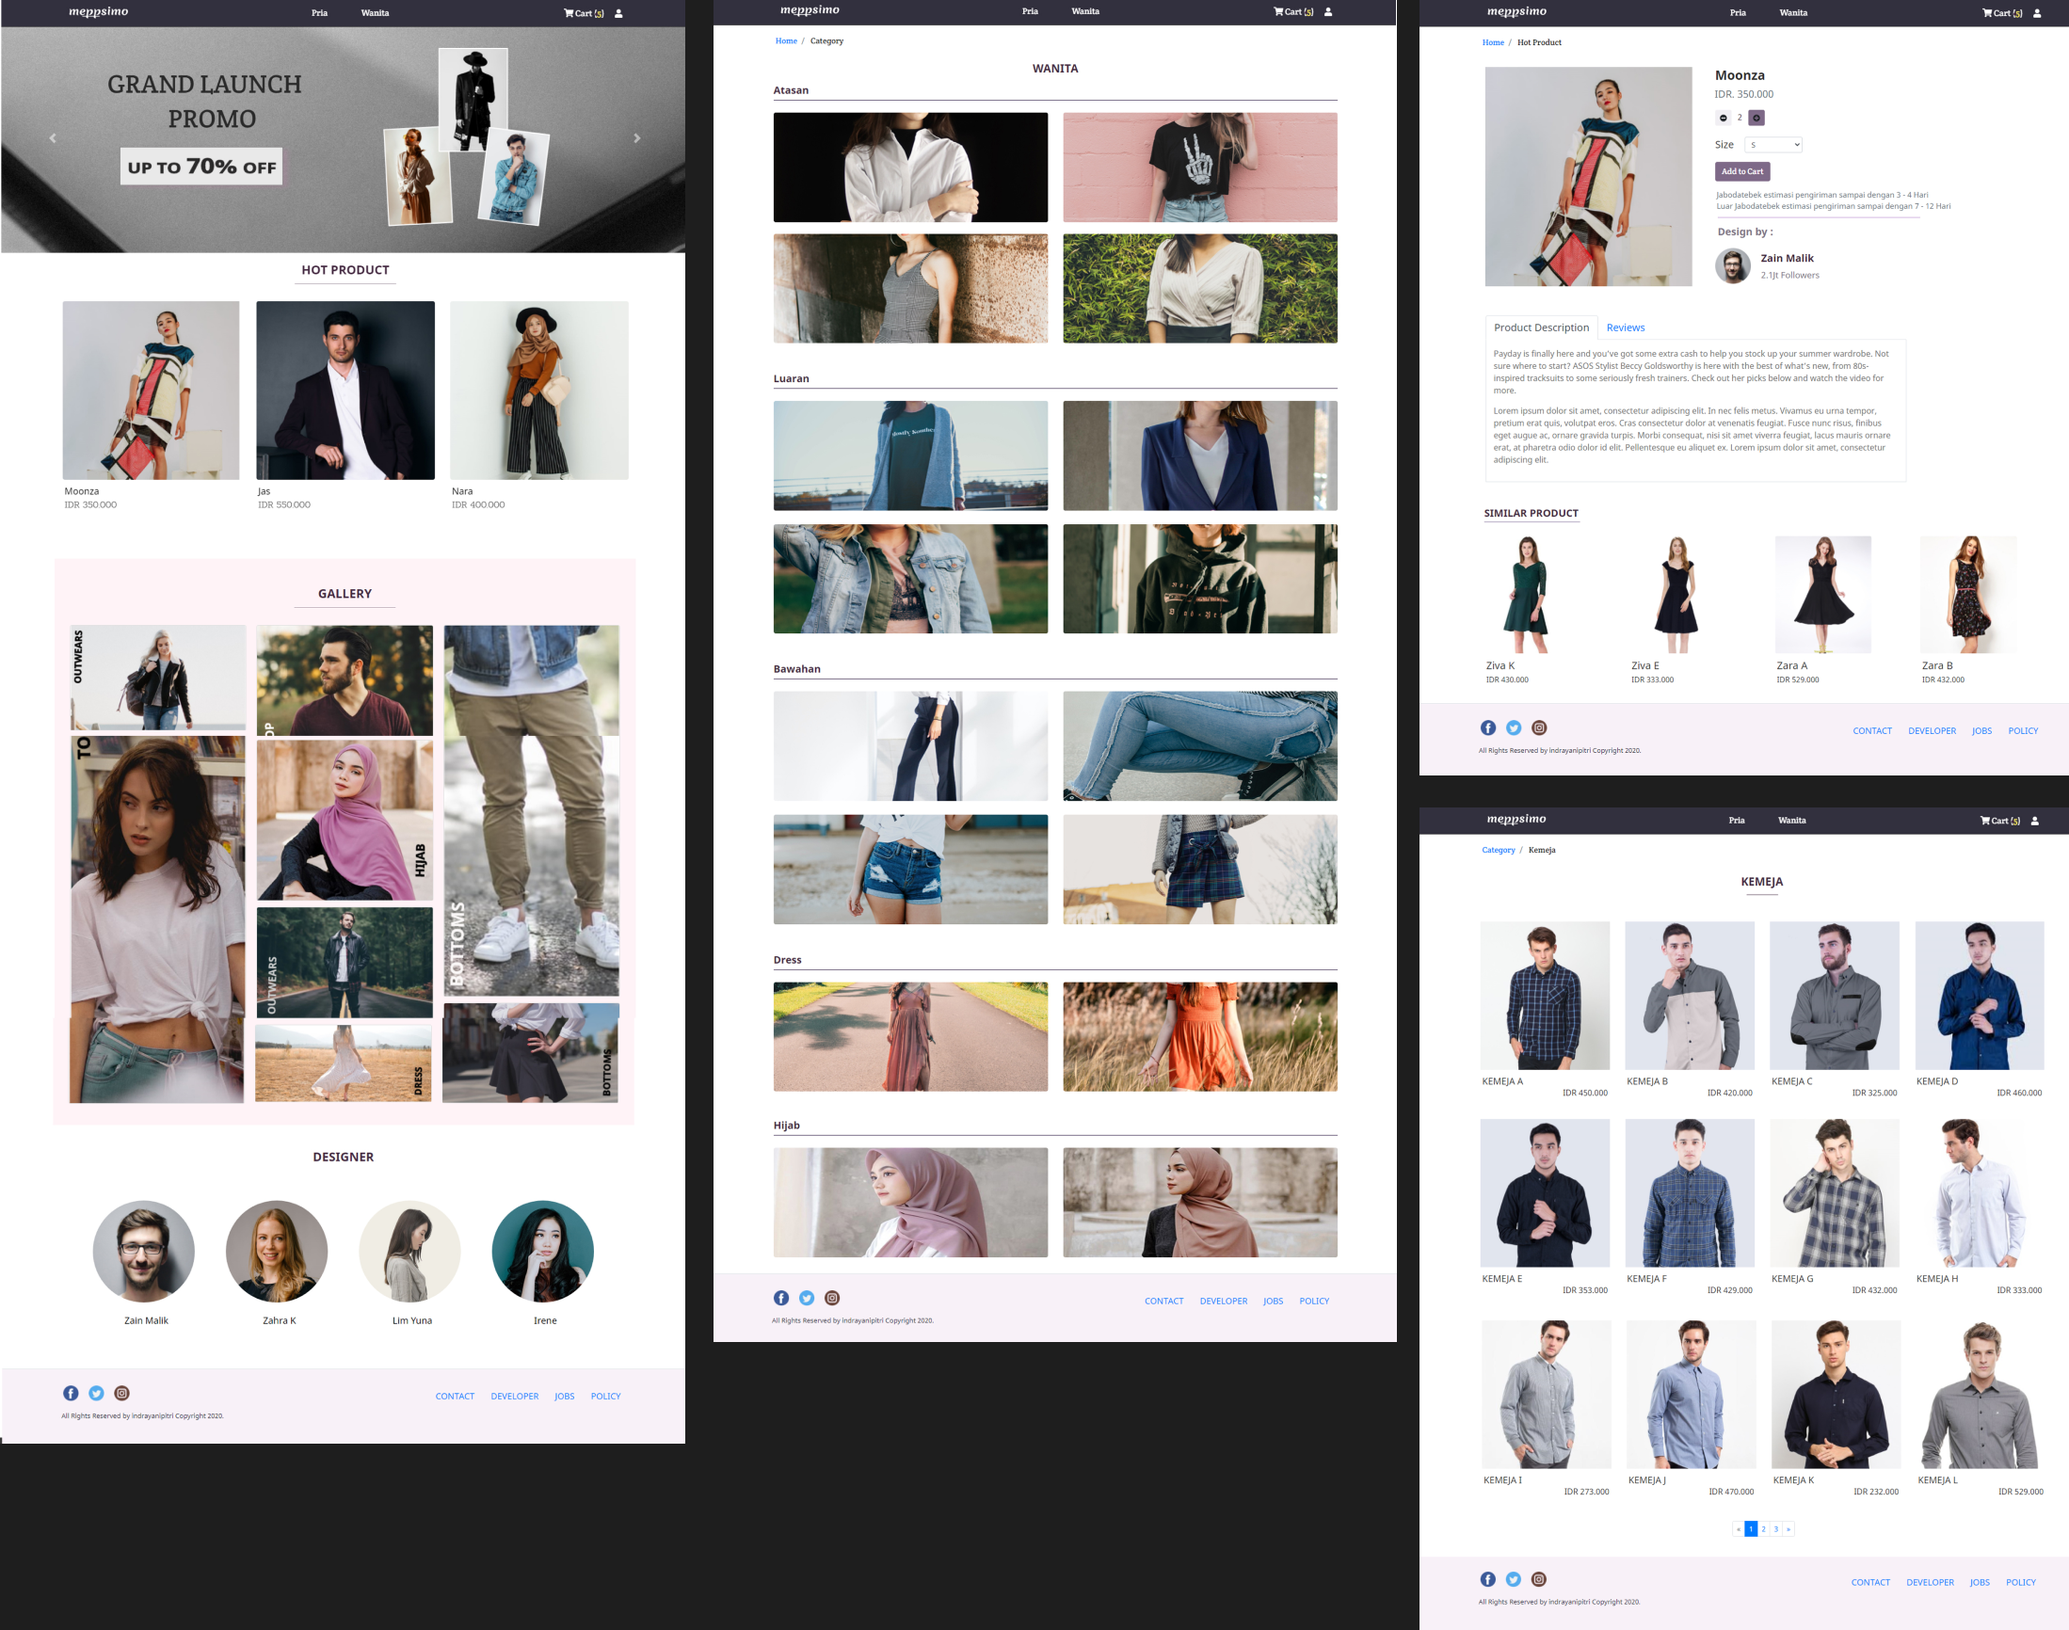
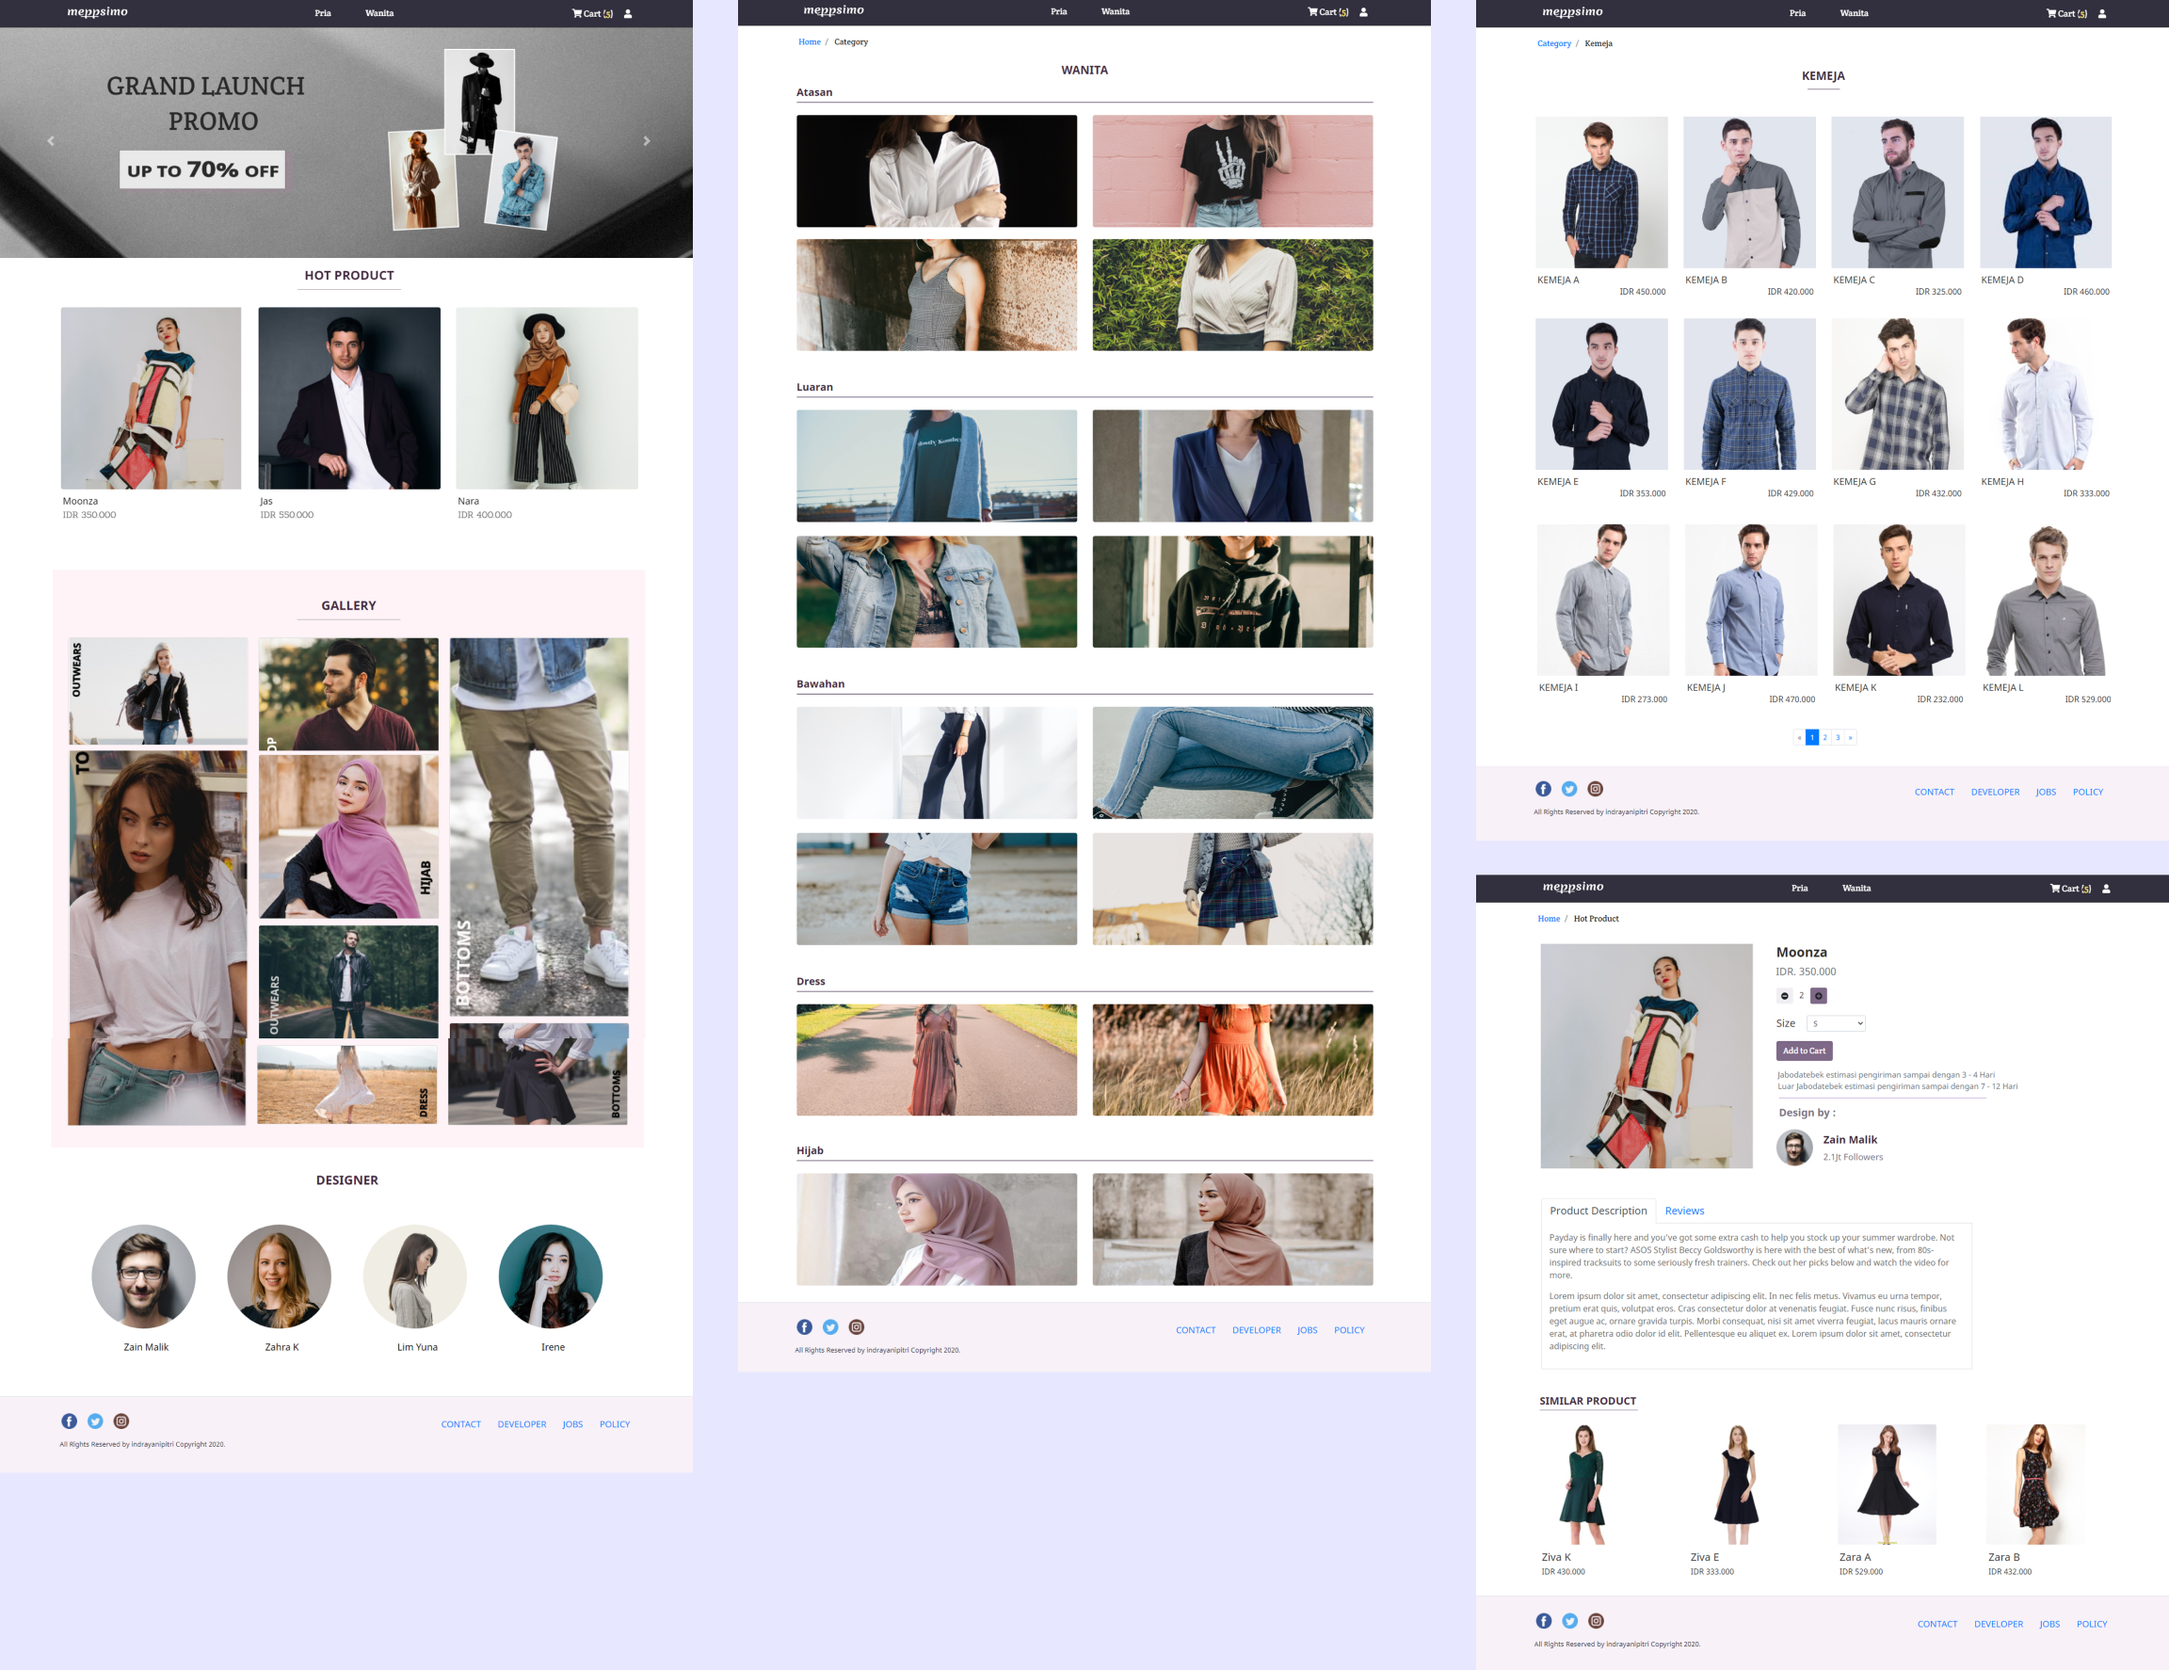
update all

diff --git a/src/Style/Header.css b/src/Style/Header.css
@@ -4,14 +4,14 @@
 
 .header {
   position: fixed;
-  height: 75px;
+  height: 70px;
   width: 100%;
   top: 0;
   left: 0;
   z-index: 1;
   transition: .3s ease-in;
   overflow: hidden;
-  background-color: #1e1e1e;
+  background-color: #f3f8fb;
 }
 
 .nav {
@@ -22,7 +22,7 @@
     height: 100%;
     padding: 0 10%;
     font-size: 18px;
-    border-bottom: .5px solid #464646;
+    border-bottom: .5px solid #dedede;
   }
   
   nav a {
@@ -34,7 +34,8 @@
     font-family: 'Pacifico', cursive;
     font-weight: 600;
     font-size: 32px;
-    color: #ff31ba;
+    /* color: #ff31ba; */
+    color: #69017e;
   }
   
   .nav-links {
@@ -53,13 +54,14 @@
   .contact {
     text-decoration: none;
     padding:  10px 10px;
-    color: #ffffff;
+    color: rgb(47, 47, 47);
     margin: 0 10px;
     cursor: pointer;
+    font-weight: 600;
   }
   
   .nav-links a:hover {
-    color: #ff31ba;
+    color: #d617f3;
   }
   
   /* .nav-links .active {
@@ -92,14 +94,14 @@
       top: 68px;
       width: 100%;
       transition: all 0.5 ease-out;
-      color: #8D8D8D;
+      color: rgb(47, 47, 47);
       height: 100vh;
       z-index: 9;
-      background-color: #1e1e1e;
+      background-color: #f3f8fb;
     }
   
     .nav-links-mobile a:hover {
-      color: #ff31ba; 
+      color: #d617f3; 
     }
   
     .about,
@@ -118,9 +120,9 @@
       top: 23px;
       right: 22px;
       font-size: 27px;
-      color: #8D8D8D;
+      color: rgb(47, 47, 47);
       border: none;
-      background-color: #1e1e1e;
+      background-color: #f3f8fb;
     }
   }
   

diff --git a/src/Component/Portfolio/Carimotor.js b/src/Component/Portfolio/Carimotor.js
@@ -1,0 +1,27 @@
+import React from 'react'
+import '../../Style/Portfolio.css'
+import ImgCariMotor from '../../assets/carimotor.png'
+
+export default function Tkit() {
+  return (
+        <div className='container-projects'>
+        <h2>User Interface App Cari Motor</h2>
+            <div className="text-projects">
+                <div className="subtitle-text">
+                    <p>Cari motor bekas atau baru tapi engga bikin mata pusing dengan banyak nya component yang berdekatan. Dibuat minimalis dan sesimple mungkin yang membuat user jd betah buat cari-cari motor yang diimpikan!</p>                    
+                </div>
+                <div className="properties-text">
+                    <h4>Tool Design :</h4>
+                    <p>Figma</p>
+                    <h4 className='font-text'>Font :</h4>
+                    <p>Dongle</p>
+                </div>
+                
+            </div>
+        <div className="img-portfolio">
+            <img src={ImgCariMotor} alt="carimotor" />
+        </div>
+        </div>
+    
+  )
+}

diff --git a/src/Component/Portfolio/MI.js b/src/Component/Portfolio/MI.js
@@ -10,7 +10,7 @@ export default function MI() {
             <div className="text-projects">
                 <div className="subtitle-text">
                     <p>Website Sekolah Madrasah Ibtidaiyah. Konsep design sekolah ini dibuat rame tapi tetap terlihat simple. Perpaduan warna biru nya bikin adem dimata. </p>
-                    
+                    <a href="/"><button>Lihat Web</button></a>
                 </div>
                 <div className="properties-text">
                     <h4>Tool Design :</h4>
@@ -18,11 +18,11 @@ export default function MI() {
                     <h4 className='font-text'>Font :</h4>
                     <p>Dongle</p>
                 </div>
-                
             </div>
-        <div className="img-portfolio">
-            <img src={ImgMi} alt="mi" />
-        </div>
+            <p className='tech-stack'>Tech Stack: Laeavel, MySql, VueJs, CSS, Bootstrap.</p>
+            <div className="img-portfolio">
+                <img src={ImgMi} alt="mi" />
+            </div>
         </div>
     </div>
     

diff --git a/src/Pages/LandingPage.js b/src/Pages/LandingPage.js
@@ -1,10 +1,11 @@
 import React, { Component } from 'react';
 import Hero from '../Component/Hero'
 import About from '../Component/About';
+import Meppsimo from '../Component/Portfolio/Meppsimo'
+import Carimotor from '../Component/Portfolio/Carimotor'
 import Mi from '../Component/Portfolio/MI'
 import Tkit from '../Component/Portfolio/Tkit'
 import Istiqomah from '../Component/Portfolio/Istiqomah'
-import Meppsimo from '../Component/Portfolio/Meppsimo'
 import Todo from '../Component/Portfolio/Todo'
 import Contact from '../Component/Contact'
 import Footer from '../Component/Footer'
@@ -21,6 +22,7 @@ class LandingPage extends Component {
         <Hero />
         <About />
         <Meppsimo />
+        <Carimotor />
         <Mi />
         <Tkit />
         <Istiqomah />

diff --git a/src/Style/Hero.css b/src/Style/Hero.css
@@ -1,7 +1,7 @@
 @import url('https://fonts.googleapis.com/css2?family=Righteous&display=swap');
 
 .hero- {
-    padding-top: 80px;
+    padding-top: 70px;
 }
 .icon-medsos {
     text-align: end;
@@ -9,19 +9,19 @@
 }
 
 .icon-medsos .fab {
-    font-size: 20px;
-    color: #8D8D8D;
+    font-size: 25px;
+    color: #69017e;
     margin-left: 20px;
     cursor: pointer;
 }
 
 .icon-medsos .fab:hover {
-    color: #fff;
+    color: rgb(205, 67, 255);
 }
 
 .hero {
     font-family: 'Righteous', cursive;
-    color: #fff;
+    color: rgb(28, 28, 28);
     letter-spacing: 2px;
     font-size: 37px;
     padding: 120px 80px;
@@ -29,7 +29,7 @@
 }
 
 .hero-name {
-    color: #ff31ba;
+    color: #69017e;
 }
 
 @media screen and (max-width: 1129px) {

diff --git a/src/Component/Hero.js b/src/Component/Hero.js
@@ -6,11 +6,11 @@ export default function Hero() {
     <div className='hero-' id='/'>
     <div className='container'>
       <div className="icon-medsos">
-        <a href="/"><i className="fab fa-linkedin"></i></a>
+        {/* <a href="/"><i className="fab fa-linkedin"></i></a> */}
         <a href="https://github.com/indrayanipitri" target="_blank" rel="noreferrer"><i className="fab fa-github"></i></a>
       </div>
       <div className="hero">
-        <h1 className='hero-name'>Indrayani Pitri,</h1>
+        <h1 className='hero-name'>Pitri Indrayani,</h1>
           {/* <h1>UI/UX</h1> */}
           <h1>Web Designer.</h1>
           {/* <h1>Frontend Developer</h1> */}

diff --git a/src/Style/Portfolio.css b/src/Style/Portfolio.css
@@ -1,6 +1,6 @@
 
 .background-projects {
-    background-color: #272727;
+    background-color: #e7e8ff;
 }
 
 .container-projects {
@@ -9,6 +9,7 @@
 
 .container-projects h2 {
     margin-bottom: 15px;
+    color: #69017e;
 }
 
 .text-projects{
@@ -24,7 +25,7 @@
 
 .subtitle-text button {
     padding: 10px 15px;
-    background-color: #ff31ba;
+    background-color: #69017e;
     margin-top: 10px;
     color: #fff;
     border: none;
@@ -35,8 +36,9 @@
 }
 
 .subtitle-text button:hover {
-    background-color: #ff67d4;
+    background-color: #b101d4;
 }
+
 .properties-text {
     margin-right: 10px;
 }

diff --git a/src/Component/Portfolio/Todo.js b/src/Component/Portfolio/Todo.js
@@ -5,7 +5,7 @@ import ImgTodo from '../../assets/todo.png'
 export default function Todo() {
   return (
         <div className='container-projects'>
-        <h2>Website Sekolah TKIT</h2>
+        <h2>App ToDo List</h2>
             <div className="text-projects">
                 <div className="subtitle-text">
                     <p>App todo yang dibuat simple dengan fungsionalitas sebutuhnya. Perpaduan warna hitam biru dan kuning membuatnya terlihat okay. Disimpan di local storage.</p>

diff --git a/src/Component/Portfolio/Meppsimo.js b/src/Component/Portfolio/Meppsimo.js
@@ -4,6 +4,7 @@ import ImgMeppsimo from '../../assets/meppsimo.png'
 
 export default function Meppsimo() {
   return (
+    <div className="background-projects">
         <div className='container-projects' id='portfolio'>
         <h2>Website Belanja Online - Meppsimo</h2>
             <div className="text-projects">
@@ -24,6 +25,6 @@ export default function Meppsimo() {
             <img src={ImgMeppsimo} alt="meppsimo" />
         </div>
         </div>
-    
+    </div>
   )
 }

diff --git a/src/Style/Contact.css b/src/Style/Contact.css
@@ -4,17 +4,21 @@
 }
 
 .kontak h1 {
-    font-size: 44px;
-    color: #ff31ba;
-    margin-bottom: 10px;
+    font-size: 50px;
+    color: #69017e;
+    margin-bottom: 20px;
 }
 
 .kontak span {
-    color: #ff31ba;
+    color: #69017e;
 }
 
 @media screen and (max-width: 991px) {
     .kontak {
         padding-left: 5%;
+    }
+
+    .kontak h1 {
+        font-size: 44px;
     }
 }

diff --git a/src/Component/Portfolio/Tkit.js b/src/Component/Portfolio/Tkit.js
@@ -21,9 +21,10 @@ export default function Tkit() {
                 
             </div>
             <p className='tech-stack'>Tech Stack: ReactJs, CSS, Bootstrap.</p>
-        <div className="img-portfolio">
+            
+            <div className="img-portfolio">
             <img src={ImgTkit} alt="tkit" />
-        </div>
+            </div>
         </div>
     
   )

diff --git a/src/App.css b/src/App.css
@@ -7,8 +7,10 @@
 }
 
 .App {
-  background-color: #1E1E1E;
-  color: #fff;
+  /* background-color: #1E1E1E; */
+  background-color: #f3f8fb;
+  /* color: #fff; */
+  color: rgb(47, 47, 47);
   height: auto;
   font-family: 'Poppins', sans-serif;
   font-weight: 400;
